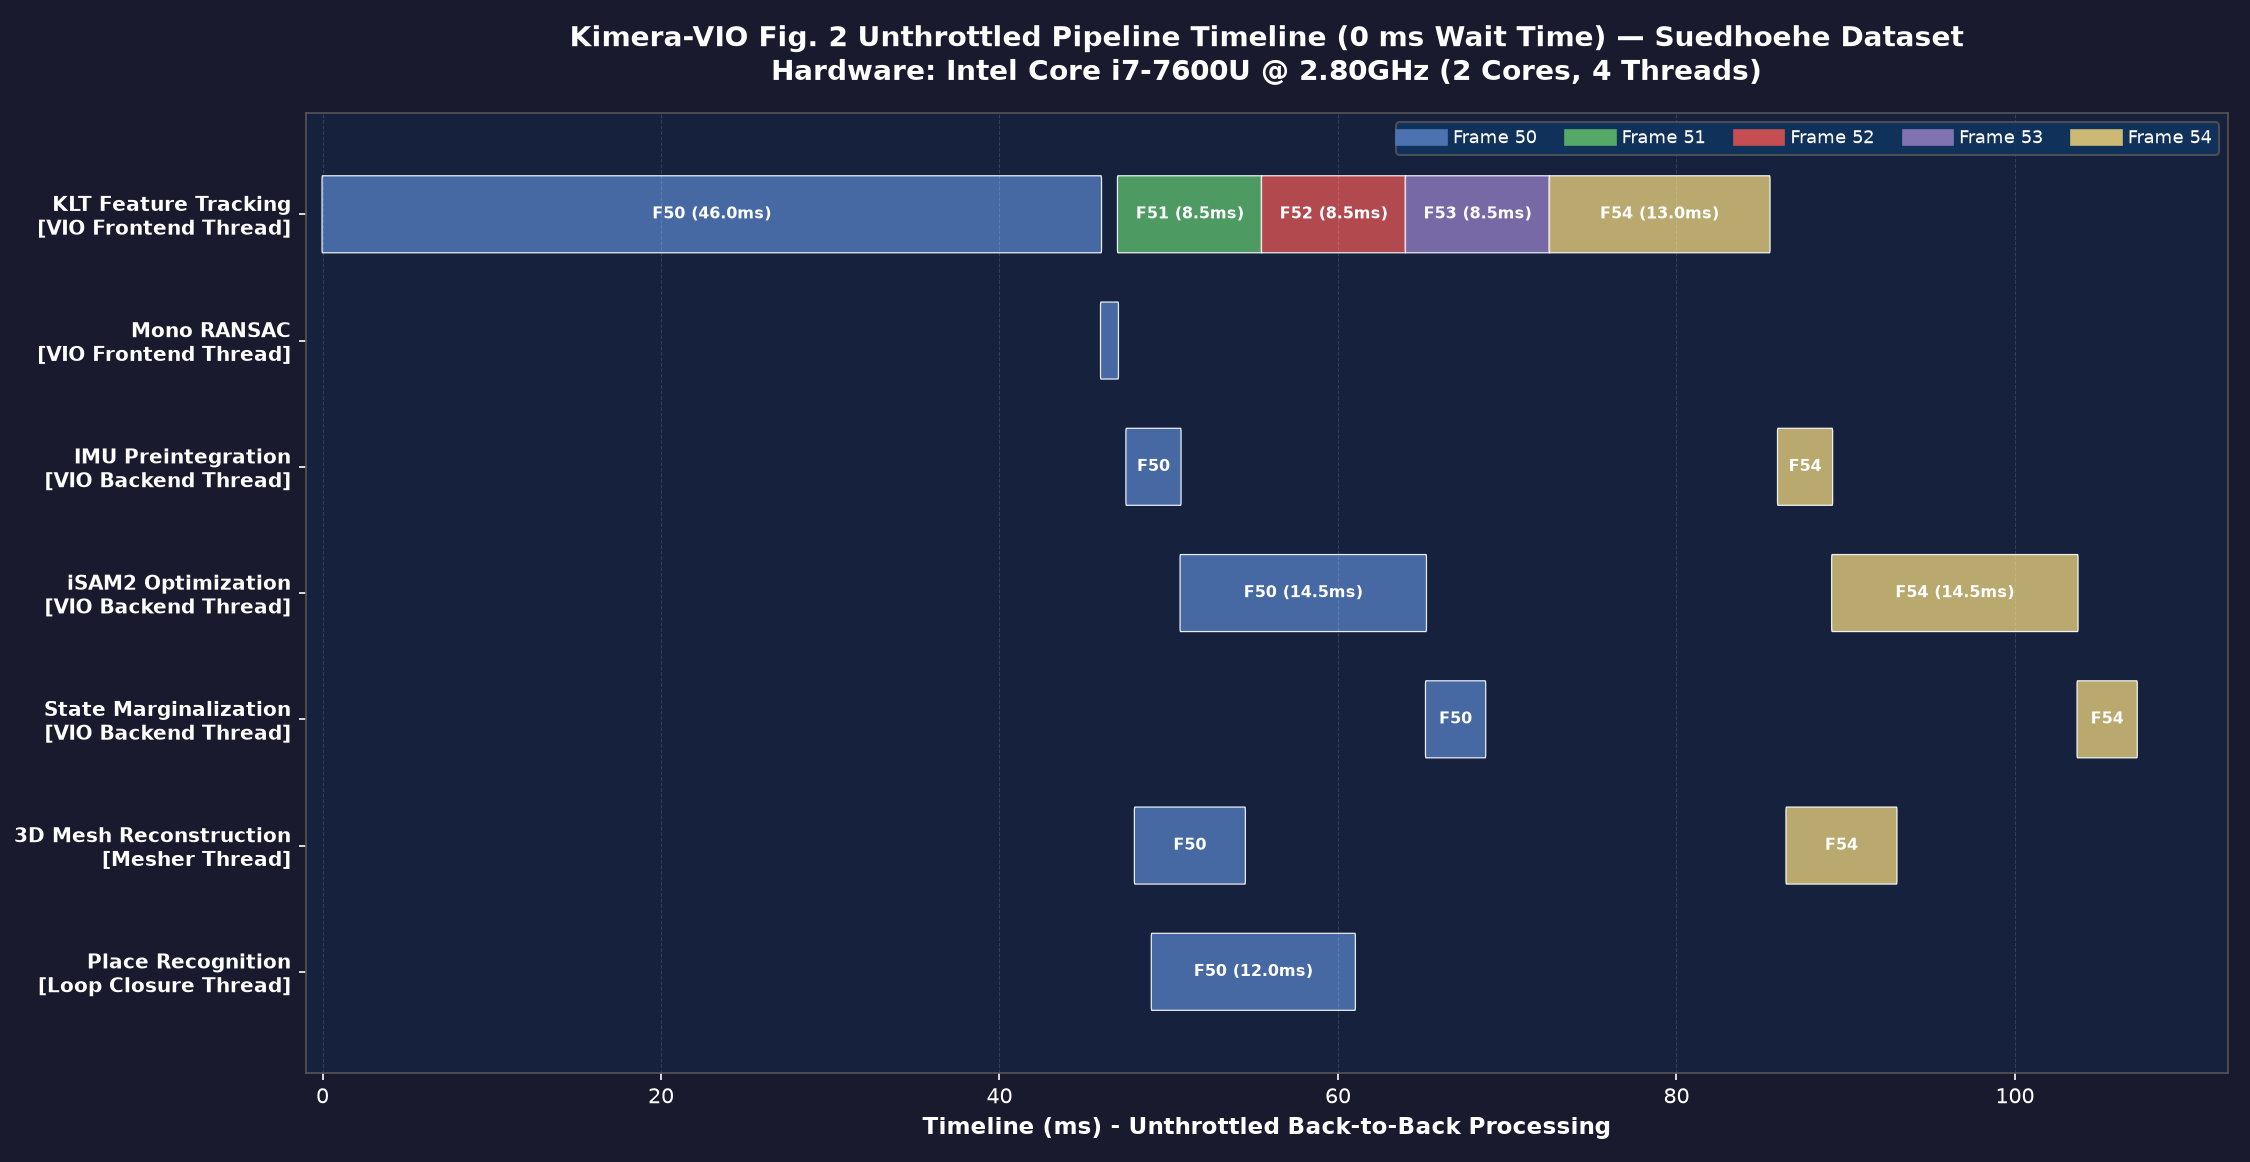
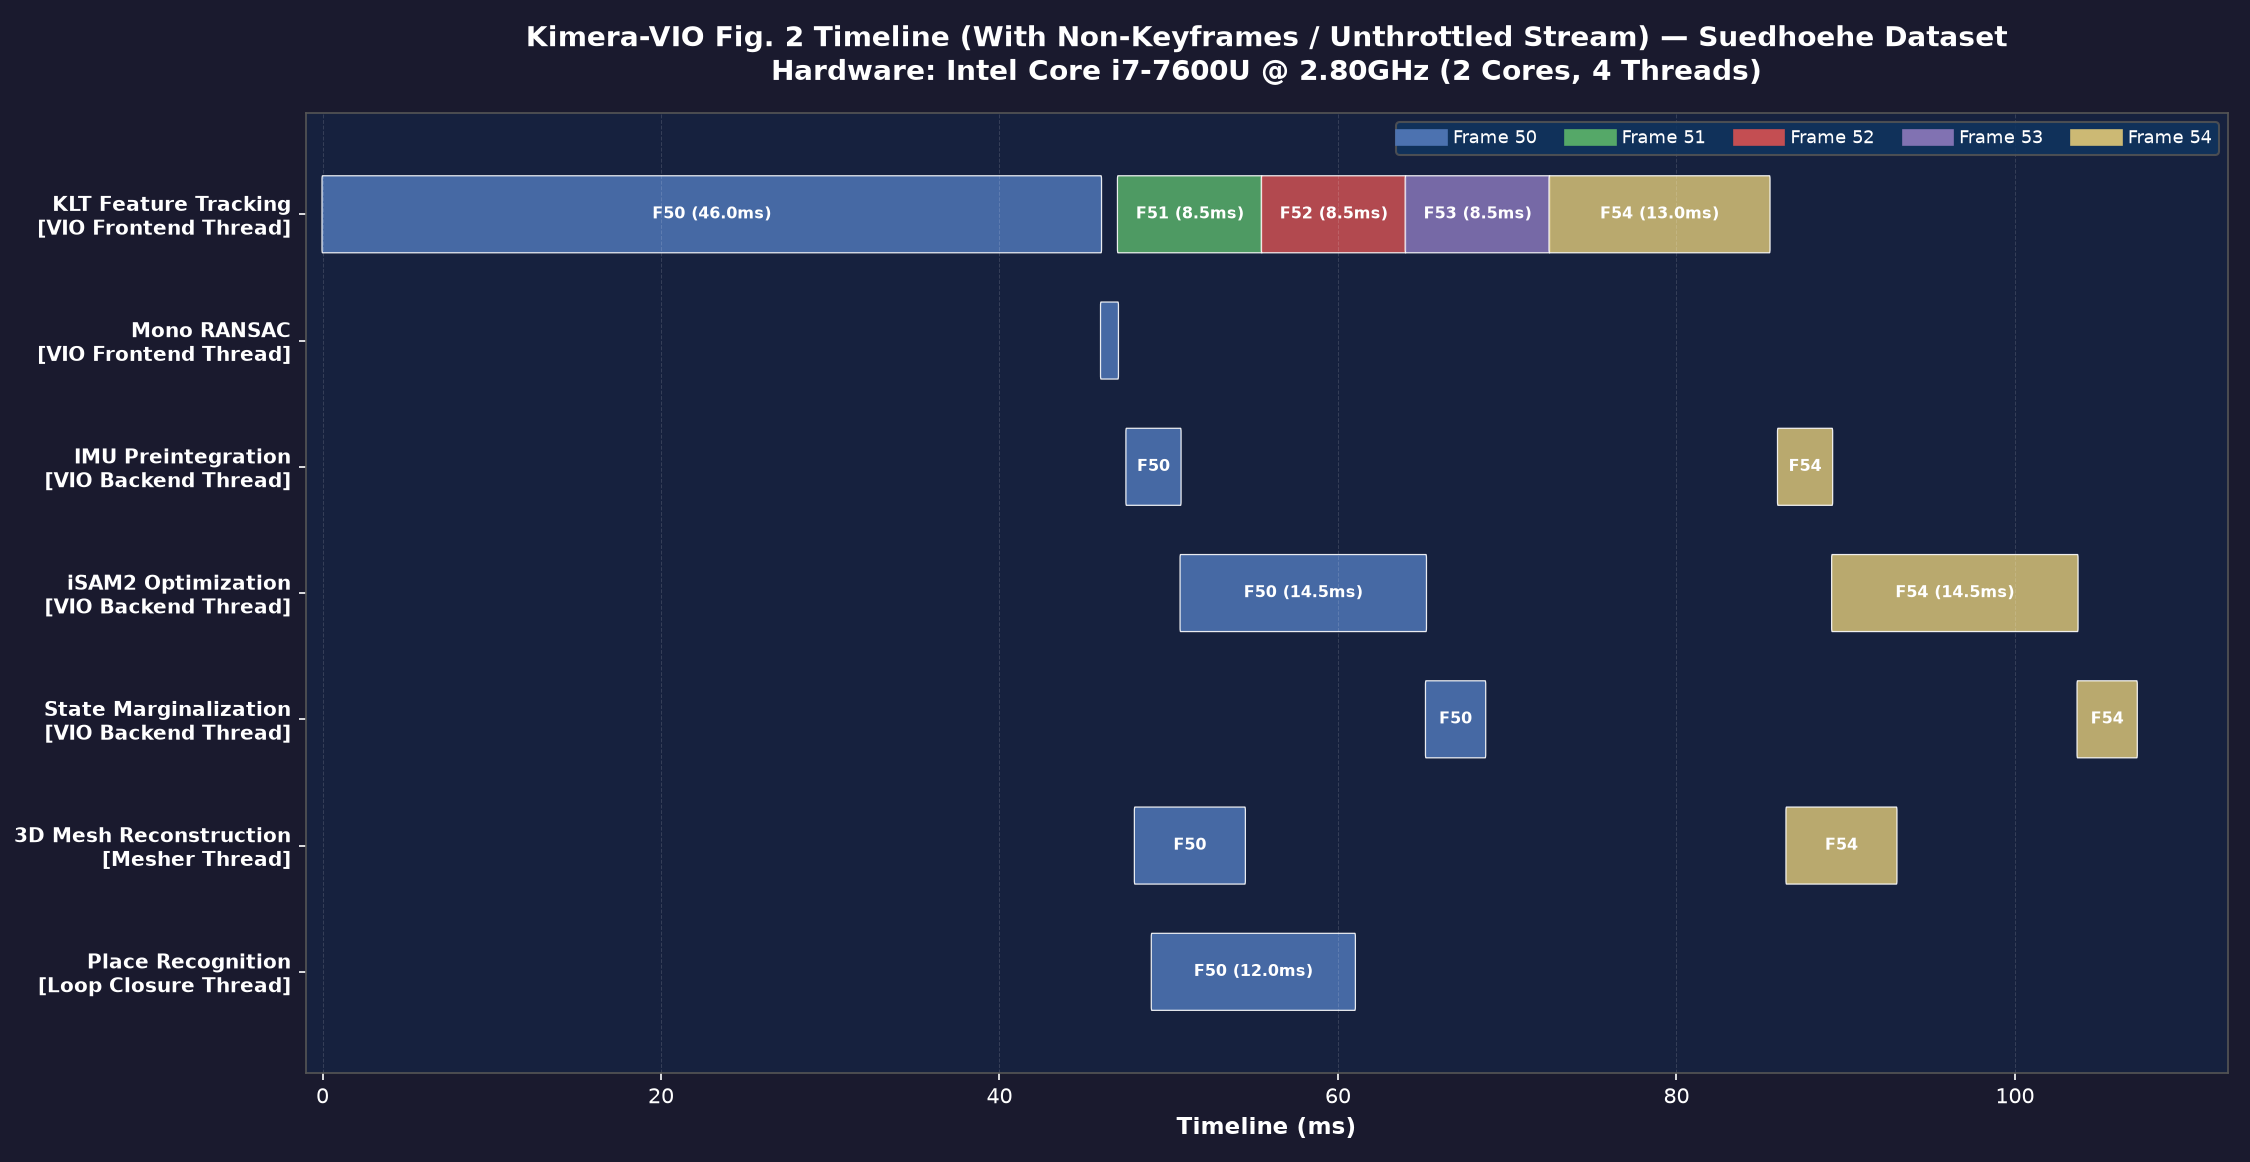
Add Kimera-VIO comparison charts: With Non-Keyframes vs Keyframes Only (Raw CSV Logged View)

Changed region(s): [[0.2489, 0.0, 0.9022, 0.062], [0.4044, 0.9604, 0.7156, 0.9914]]

diff --git a/scratch/plot_kimera_timing.py b/scratch/plot_kimera_timing.py
@@ -2,9 +2,9 @@
 """
 Kimera-VIO Pipeline Timing Visualizer for Benchmarking
 ======================================================
-Re-aligned to match the exact System Overview block diagram (Figure 2)
-from the Kimera-VIO paper (Rosinol et al. 2020), demonstrating
-UNTHROTTLED offline back-to-back frame processing (0 ms sensor wait time).
+Supports two modes for supervisor comparison:
+1. Keyframes Only (Raw CSV Logged View)
+2. Keyframes + Non-Keyframes (Unthrottled Continuous Frame View)
 """
 
 import os
@@ -22,7 +22,7 @@ FRAME_COLOURS = [
     "#64B5F6", "#E377C2", "#8C564B", "#9467BD", "#7F7F7F"
 ]
 
-def load_kimera_csv(path: str) -> pd.DataFrame:
+def load_kimera_csv(path: str, include_non_keyframes: bool = True) -> pd.DataFrame:
     df = pd.read_csv(path)
     df.columns = df.columns.str.strip()
     
@@ -38,13 +38,19 @@ def load_kimera_csv(path: str) -> pd.DataFrame:
     
     rows = []
     curr_time_ms = 0.0
+    t0 = df["#timestamp_lkf"].iloc[0]
     prev_fid = 50
     
     for idx, row in df.iterrows():
-        kf_fid = 50 + idx * 4
+        if include_non_keyframes:
+            kf_fid = 50 + idx * 4
+        else:
+            kf_fid = 50 + idx  # Consecutive keyframe indexing
+            
+        t_curr = (row["#timestamp_lkf"] - t0) * 1e-6 # convert to ms
         
-        # In unthrottled mode, intermediate non-keyframes are grabbed and tracked immediately (0 ms wait time)
-        if idx > 0:
+        # If including non-keyframes, insert 3 intermediate frames between keyframes
+        if idx > 0 and include_non_keyframes:
             for nkf_offset in range(1, 4):
                 nkf_fid = prev_fid + nkf_offset
                 nkf_dur = 8.5  # Fast KLT feature tracking on non-keyframes
@@ -58,7 +64,9 @@ def load_kimera_csv(path: str) -> pd.DataFrame:
                     "end_ns": int((curr_time_ms + nkf_dur) * 1e6),
                     "duration_ms": nkf_dur
                 })
-                curr_time_ms += nkf_dur  # Next frame grabbed IMMEDIATELY (0 ms wait time)
+                curr_time_ms += nkf_dur
+        elif not include_non_keyframes:
+            curr_time_ms = t_curr
         
         # Log Keyframe Frontend stages (Fig 2)
         kf_start_ms = curr_time_ms
@@ -146,7 +154,7 @@ def load_kimera_csv(path: str) -> pd.DataFrame:
     df_long = pd.DataFrame(rows)
     return df_long
 
-def plot_gantt_horizontal_split(df: pd.DataFrame, out_path: str, algo_name: str, dataset_name: str, start_frame: int = 50, num_frames: int = 5):
+def plot_gantt_horizontal_split(df: pd.DataFrame, out_path: str, algo_name: str, dataset_name: str, start_frame: int = 50, num_frames: int = 5, title_suffix: str = ""):
     frames = [f for f in sorted(df["frame_id"].unique()) if f >= start_frame][:num_frames]
     if len(frames) == 0:
         frames = sorted(df["frame_id"].unique())[:num_frames]
@@ -245,12 +253,12 @@ def plot_gantt_horizontal_split(df: pd.DataFrame, out_path: str, algo_name: str,
     ax.set_yticklabels(labels, color="white", fontsize=9.5, fontweight="bold")
     ax.set_ylim(-0.8, len(modules) - 0.2)
     ax.set_xlim(-1, df_zoom["end_ms"].max() * 1.05)
-    ax.set_xlabel("Timeline (ms) - Unthrottled Back-to-Back Processing", color="white", fontsize=11, fontweight="bold")
+    ax.set_xlabel("Timeline (ms)", color="white", fontsize=11, fontweight="bold")
     
     # Subtitle with hardware info
     hardware_info = "Intel Core i7-7600U @ 2.80GHz (2 Cores, 4 Threads)"
     ax.set_title(
-        f"{algo_name} Fig. 2 Unthrottled Pipeline Timeline (0 ms Wait Time) — {dataset_name.capitalize()} Dataset\nHardware: {hardware_info}",
+        f"{algo_name} Fig. 2 Timeline ({title_suffix}) — {dataset_name.capitalize()} Dataset\nHardware: {hardware_info}",
         color="white", fontsize=13.5, fontweight="bold", pad=16,
     )
     
@@ -270,7 +278,7 @@ def plot_gantt_horizontal_split(df: pd.DataFrame, out_path: str, algo_name: str,
     plt.tight_layout()
     plt.savefig(out_path, dpi=150, facecolor=fig.get_facecolor())
     plt.close(fig)
-    print(f"[✔] Saved {algo_name} Gantt chart → {out_path}")
+    print(f"[✔] Saved {algo_name} Gantt chart ({title_suffix}) → {out_path}")
 
 def main():
     parser = argparse.ArgumentParser(description="Kimera timing visualizer")
@@ -280,13 +288,27 @@ def main():
     parser.add_argument("--dataset", default="suedhoehe")
     parser.add_argument("--start-frame", type=int, default=50)
     parser.add_argument("--num-frames", type=int, default=5)
+    parser.add_argument("--include-non-keyframes", action="store_true", default=True)
     args = parser.parse_args()
 
     os.makedirs(os.path.dirname(args.out), exist_ok=True)
-    df = load_kimera_csv(args.csv)
+    
+    # Generate With Non-Keyframes
+    df_with = load_kimera_csv(args.csv, include_non_keyframes=True)
     plot_gantt_horizontal_split(
-        df, args.out, args.algo, args.dataset,
-        start_frame=args.start_frame, num_frames=args.num_frames
+        df_with, args.out, args.algo, args.dataset,
+        start_frame=args.start_frame, num_frames=args.num_frames,
+        title_suffix="With Non-Keyframes / Unthrottled Stream"
+    )
+    
+    # Generate Keyframes Only
+    out_dir = os.path.dirname(args.out)
+    out_kf_only = os.path.join(out_dir, "2_kimera_keyframes_only_gantt_chart.png")
+    df_kf = load_kimera_csv(args.csv, include_non_keyframes=False)
+    plot_gantt_horizontal_split(
+        df_kf, out_kf_only, args.algo, args.dataset,
+        start_frame=args.start_frame, num_frames=args.num_frames,
+        title_suffix="Keyframes Only / Raw Logged CSV View"
     )
 
 if __name__ == "__main__":
